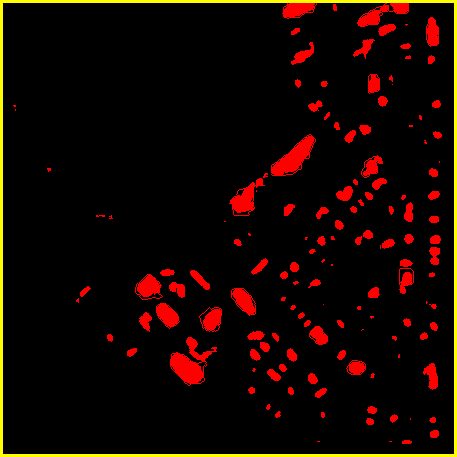
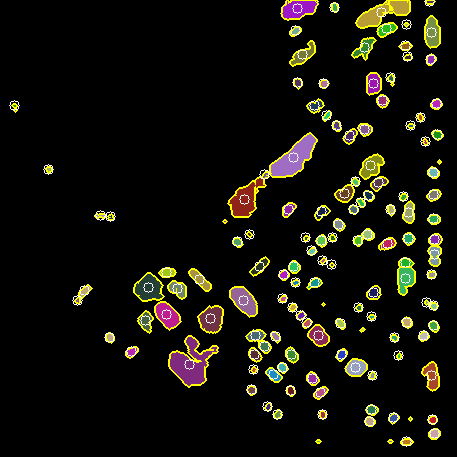
center of buildings (and fun colors)

diff --git a/testimages/segment.py b/testimages/segment.py
@@ -1,5 +1,6 @@
 import numpy as np
 import cv2
+import random
 
 img = cv2.imread('dg1490743858.59531.png')
 Bchan,Gchan,Rchan = cv2.split(img)
@@ -47,8 +48,25 @@ out[markers==-1] = [255,0,0]
 cv2.imwrite('greendisttransform.png',out)
 
 #try findContours
-im2, contours, hierarchy = cv2.findContours(binimg, cv2.RETR_EXTERNAL, cv2.CHAIN_APPROX_TC89_L1)
+im2, contours, hierarchy = cv2.findContours(binimg, cv2.RETR_EXTERNAL, cv2.CHAIN_APPROX_NONE)
+print(len(contours))
 out2 = np.zeros(img.shape,dtype=np.uint8)
 out2[binimg == 255] = [0,0,255]
 cv2.drawContours(out2,contours, -1, (0,255,255), 3)
 cv2.imwrite('contours.png',out2)
+
+# find the moments of each object
+# M = np.zeros(len(contours))
+for c in contours:
+    r = random.randint(20,200)
+    g = random.randint(20,200)
+    b = random.randint(20,200)
+
+    cv2.fillPoly(out2, pts=[c], color=[r, g, b])
+    m = cv2.moments(c)
+    if (m['m10'] > 0):
+        cx = int(m['m10']/m['m00'])
+        cy = int(m['m01']/m['m00'])
+        cv2.circle(out2, (cx,cy), 5, [255,255, 255])
+
+cv2.imwrite('contours.png', out2)
